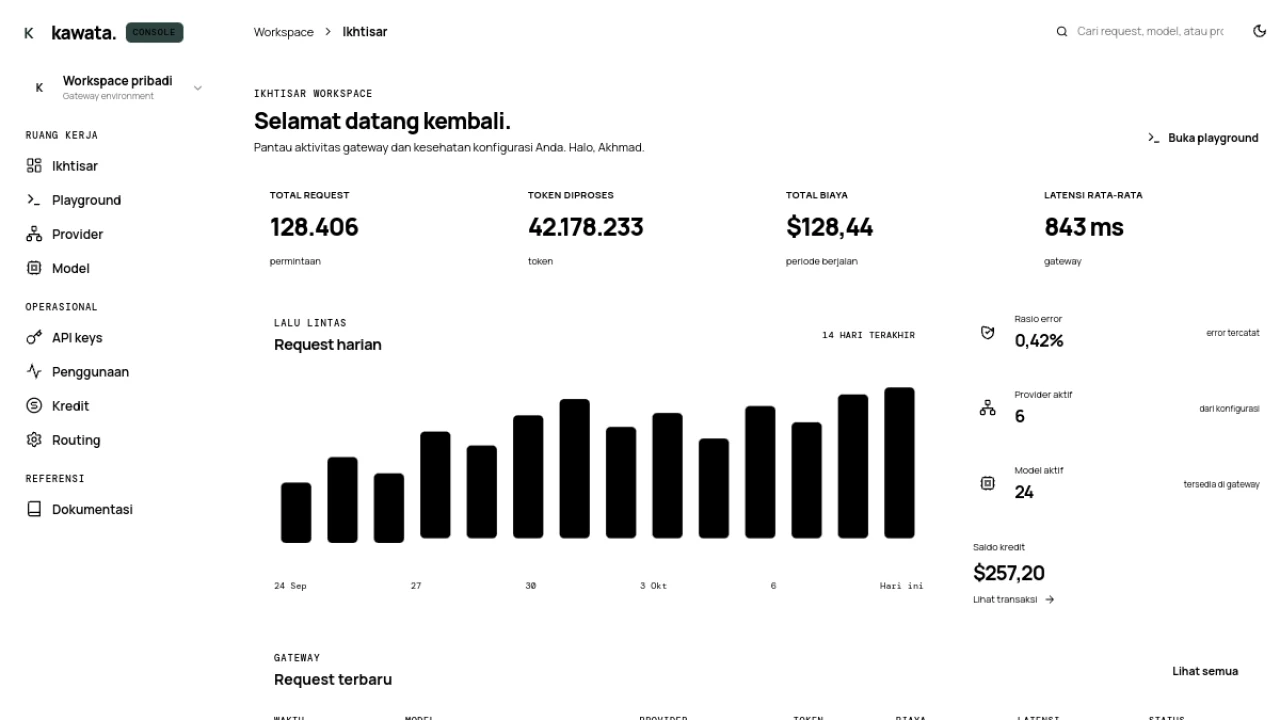
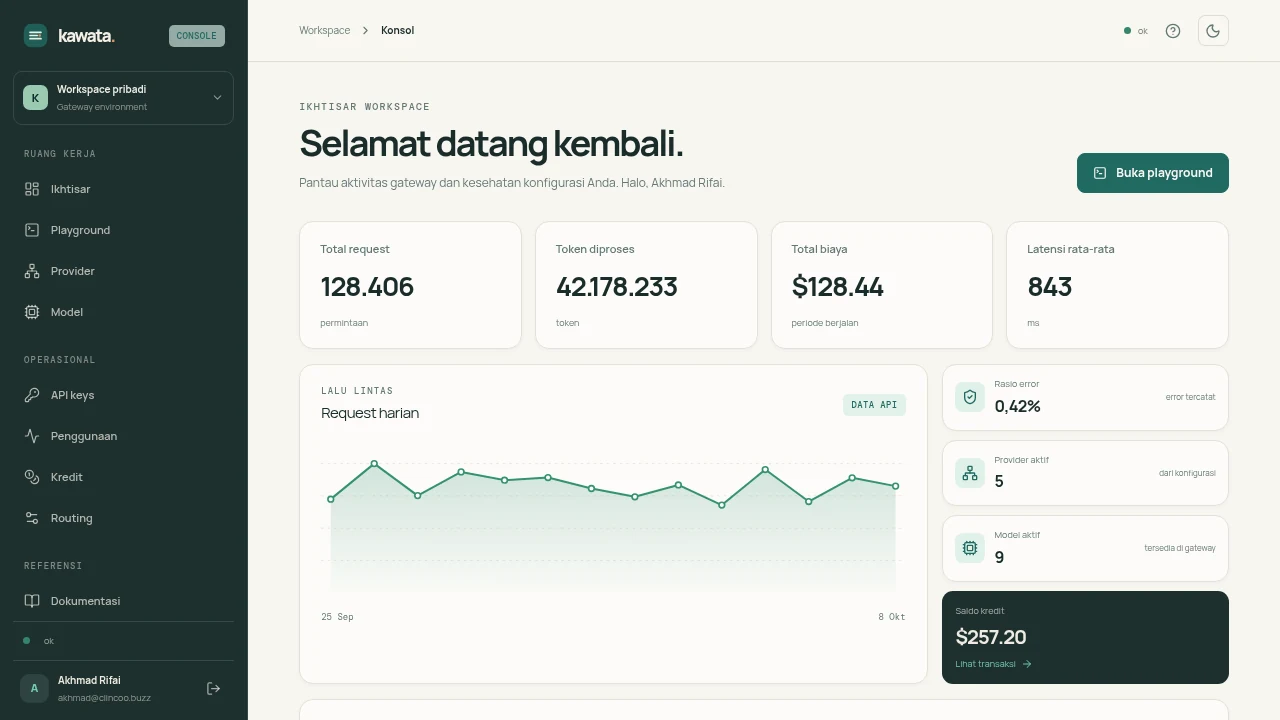
Thumbnail baru ai-router: screenshot console asli (bukan replika)

diff --git a/js/templates-data.js b/js/templates-data.js
@@ -327,7 +327,7 @@ var ClincooTemplates = (function () {
     var imgWrap = document.createElement('div');
     imgWrap.className = 'w-full aspect-video bg-gray-50 rounded-xl overflow-hidden';
     var img = document.createElement('img');
-    img.src = IMG_BASE + key + '.webp?v=4';
+    img.src = IMG_BASE + key + '.webp?v=5';
     img.alt = 'Pratinjau ' + t.name;
     img.className = 'w-full h-full object-cover';
     imgWrap.appendChild(img);
